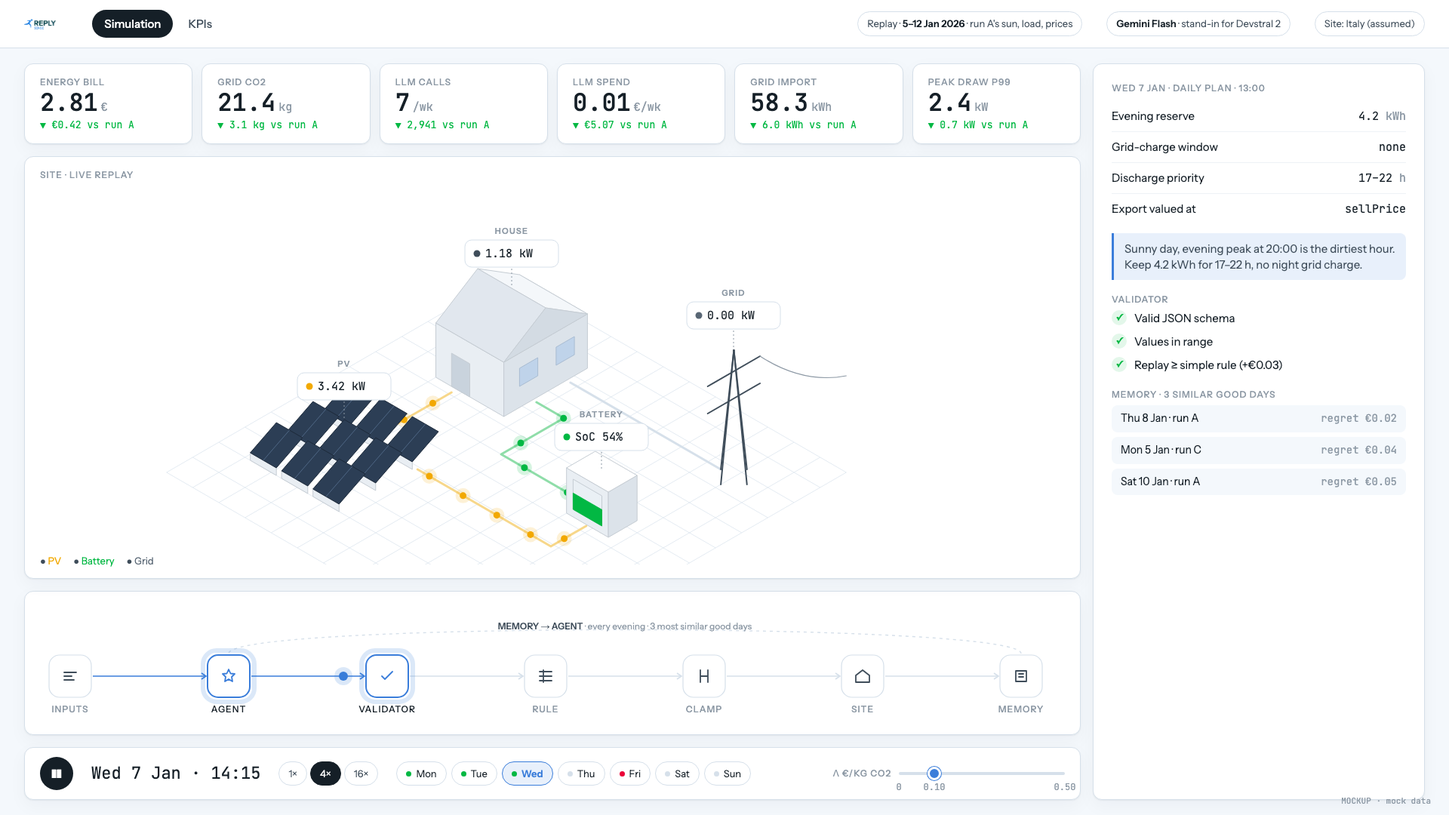
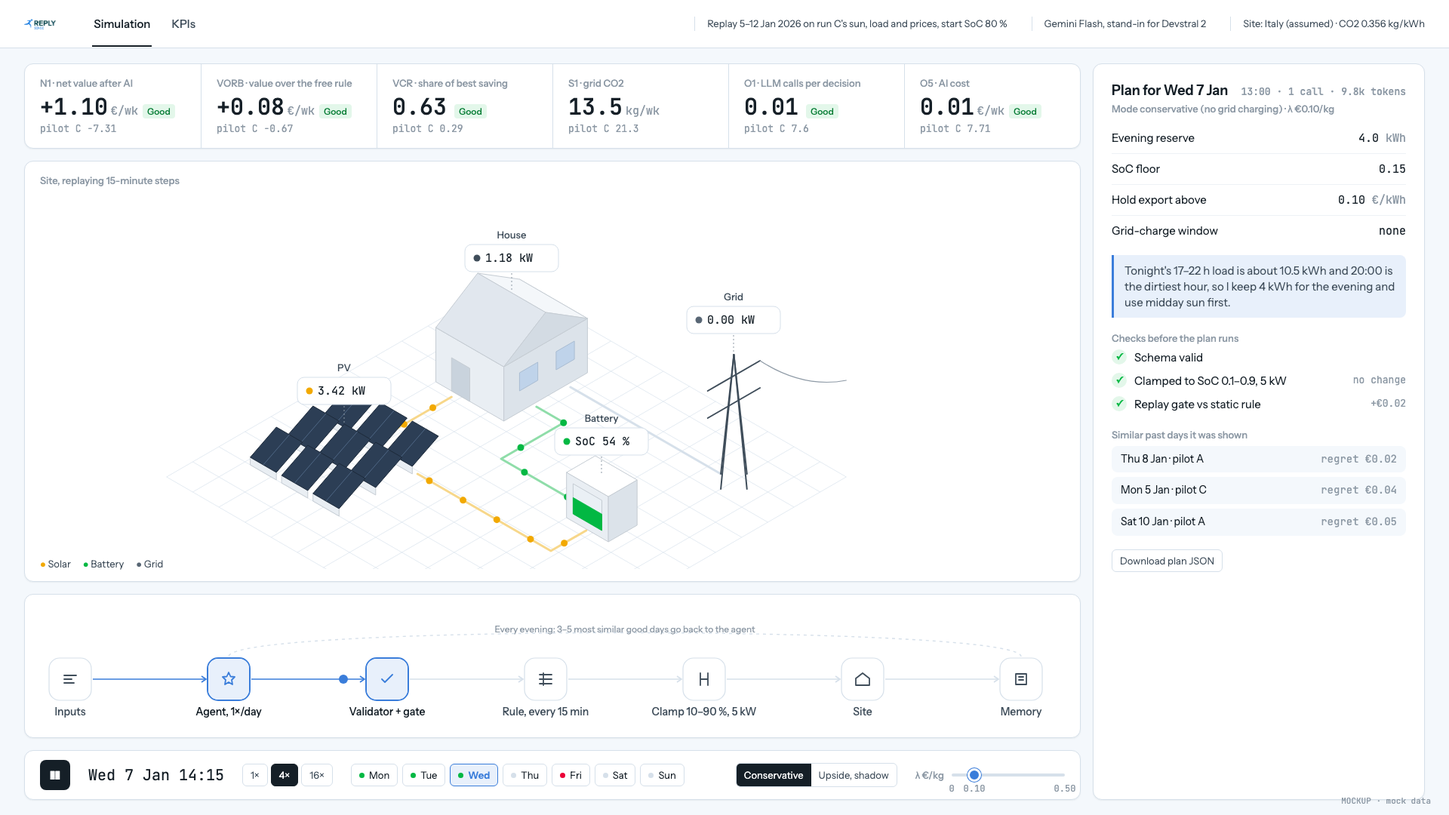
docs: de-slopped mock-1 + KPI tab aligned with the conformity workbook

diff --git a/docs/mockups/mock.html b/docs/mockups/mock.html
@@ -7,16 +7,29 @@
 *{box-sizing:border-box;margin:0;padding:0}
 body{width:1920px;height:1080px;overflow:hidden;background:var(--paper);color:var(--ink);font:400 15px/1.4 "Instrument Sans",sans-serif}
 .mono{font-family:"JetBrains Mono",monospace;font-variant-numeric:tabular-nums}
-.cap{font-size:12px;letter-spacing:.08em;text-transform:uppercase;color:var(--mute);font-weight:500}
+.cap{font-size:13px;color:var(--mute);font-weight:500}
 header{height:64px;display:flex;align-items:center;gap:32px;padding:0 32px;background:var(--card);border-bottom:1px solid var(--line)}
 header img{height:26px}
+.meta{font-size:13px;color:var(--ink2);padding-left:16px;border-left:1px solid var(--line)}
+.strip{display:grid;grid-template-columns:repeat(6,1fr)}
+.strip>div{padding:16px 20px;border-left:1px solid var(--line)}
+.strip>div:first-child{border:0}
+.vd{font:500 12px 'Instrument Sans';padding:2px 6px;border-radius:4px;margin-left:6px}
+.vd.g{background:#E3F7EA;color:#027A31}.vd.i{background:#FDE7EC;color:#B0002A}
+table{border-collapse:collapse;width:100%}
+th,td{padding:9px 8px;text-align:right;font-size:14px;border-bottom:1px solid #EEF2F6;white-space:nowrap}
+th{font-weight:500;color:var(--mute);font-size:13px}
+th:first-child,td:first-child{text-align:left}
+td.n{font-family:'JetBrains Mono',monospace;font-variant-numeric:tabular-nums}
+tr.grp td{font-weight:600;color:var(--ink);padding-top:16px;border-bottom:1px solid var(--line)}
+td.ours,th.ours{background:var(--agent-soft)}
 .tabs{display:flex;gap:4px;margin-left:16px}
-.tab{padding:8px 16px;border-radius:999px;color:var(--ink2);font-weight:500}
-.tab.on{background:var(--ink);color:#fff}
-.chip{padding:6px 12px;border-radius:999px;border:1px solid var(--line);font-size:13px;color:var(--ink2);background:var(--card);white-space:nowrap}
+.tab{padding:20px 2px 18px;margin-right:20px;color:var(--ink2);font-weight:500;border-bottom:2px solid transparent}
+.tab.on{color:var(--ink);border-color:var(--ink)}
+.chip{padding:5px 10px;border-radius:6px;border:1px solid var(--line);font-size:13px;color:var(--ink2);background:var(--card);white-space:nowrap}
 .chip b{font-weight:600;color:var(--ink)}
 .sp{flex:1}
-.card{background:var(--card);border:1px solid var(--line);border-radius:12px;box-shadow:0 1px 2px #151F270F,0 8px 24px #151F270A}
+.card{background:var(--card);border:1px solid var(--line);border-radius:12px;box-shadow:0 1px 2px #151F270F}
 .kpi{padding:16px 20px}
 .kpi .v{font:500 32px/1.1 "JetBrains Mono",monospace;margin-top:6px}
 .kpi .u{font:400 15px "JetBrains Mono",monospace;color:var(--mute);margin-left:4px}
@@ -27,9 +40,9 @@ header img{height:26px}
 .check{display:flex;gap:10px;align-items:center;padding:5px 0}
 .ok{width:20px;height:20px;border-radius:50%;background:#E3F7EA;color:var(--store);display:grid;place-items:center;font-size:12px;font-weight:600}
 .mem{display:flex;justify-content:space-between;padding:8px 12px;border-radius:8px;background:var(--paper);margin-top:6px;font-size:14px}
-.btn{width:44px;height:44px;border-radius:50%;background:var(--ink);color:#fff;display:grid;place-items:center;font-size:16px}
+.btn{width:40px;height:40px;border-radius:8px;background:var(--ink);color:#fff;display:grid;place-items:center;font-size:16px}
 .days{display:flex;gap:6px}
-.day{padding:6px 12px;border-radius:999px;border:1px solid var(--line);font-size:13px;display:flex;gap:6px;align-items:center;background:var(--card)}
+.day{padding:5px 10px;border-radius:6px;border:1px solid var(--line);font-size:13px;display:flex;gap:6px;align-items:center;background:var(--card)}
 .day.on{border-color:var(--agent);background:var(--agent-soft);color:var(--agent);font-weight:600}
 .dot{width:7px;height:7px;border-radius:50%;background:var(--store)}
 .lam{display:flex;align-items:center;gap:10px}
@@ -62,7 +75,7 @@ function scene(W,H,s,ox,oy,labels=true){
     return `<path d="${d}" fill="none" stroke="${col}" stroke-width="${w}" stroke-linecap="round" stroke-linejoin="round"/>`};
   const parts=(pts,col,n)=>{let o='';const seg=[];let L=0;for(let i=1;i<pts.length;i++){const l=Math.hypot(pts[i][0]-pts[i-1][0],pts[i][1]-pts[i-1][1]);seg.push(l);L+=l}
     for(let k=0;k<n;k++){let t=(k+.35)/n*L,i=0;while(t>seg[i]){t-=seg[i];i++}const f=t/seg[i];const a=pts[i],b=pts[i+1];
-      const p=P(a[0]+(b[0]-a[0])*f,a[1]+(b[1]-a[1])*f);o+=`<circle cx="${p[0]}" cy="${p[1]}" r="4.5" fill="${col}"/><circle cx="${p[0]}" cy="${p[1]}" r="10" fill="${col}" opacity=".16"/>`}return o};
+      const p=P(a[0]+(b[0]-a[0])*f,a[1]+(b[1]-a[1])*f);o+=`<circle cx="${p[0]}" cy="${p[1]}" r="4.5" fill="${col}"/>`}return o};
   const fPVh=[[1.8,6.1],[1.8,3.9]], fPVb=[[3.7,7.1],[8.8,7.1],[8.8,5.75]], fBh=[[7.9,5],[4.8,5],[4.8,2.6],[3.75,2.6]], fGh=[[9.5,1.3],[3.75,1.3]];
   g+=path(fGh,C.line,3)+path(fPVh,'#F7D78A',3)+path(fPVb,'#F7D78A',3)+path(fBh,'#8FDDA9',3);
   g+=parts(fPVb,C.sun,5)+parts(fPVh,C.sun,2)+parts(fBh,C.store,4);
@@ -88,8 +101,8 @@ function scene(W,H,s,ox,oy,labels=true){
     g+=poly([[x,y,.75],[x+1,y,.75],[x+1,y+1,.25],[x,y+1,.25]],'#2C3E55','#1D2A3A');
     g+=`<line x1="${P(x+.5,y,.75)[0]}" y1="${P(x+.5,y,.75)[1]}" x2="${P(x+.5,y+1,.25)[0]}" y2="${P(x+.5,y+1,.25)[1]}" stroke="#4E6684" stroke-width="1"/>`}
   // labels
-  const lab=(x,y,z,t,v,col)=>{const p=P(x,y,z);return `<g transform="translate(${p[0].toFixed(0)},${p[1].toFixed(0)})"><line x1="0" y1="0" x2="0" y2="-26" stroke="${C.mute}" stroke-dasharray="2 3"/><rect x="-62" y="-60" width="124" height="36" rx="9" fill="#fff" stroke="${C.line}"/><circle cx="-46" cy="-42" r="4.5" fill="${col}"/><text x="-35" y="-37" font-family="JetBrains Mono" font-size="15" fill="${C.ink}">${v}</text><text x="0" y="-68" text-anchor="middle" font-family="Instrument Sans" font-size="11" font-weight="600" letter-spacing="1.2" fill="${C.mute}">${t}</text></g>`};
-  if(labels)g+=lab(1.4,7.6,.8,'PV','3.42 kW',C.sun)+lab(2.3,2.1,2.9,'HOUSE','1.18 kW',C.ink2)+lab(8.8,5.15,1.6,'BATTERY','SoC 54%',C.store)+lab(10,1.3,4.3,'GRID','0.00 kW',C.grid);
+  const lab=(x,y,z,t,v,col)=>{const p=P(x,y,z);return `<g transform="translate(${p[0].toFixed(0)},${p[1].toFixed(0)})"><line x1="0" y1="0" x2="0" y2="-26" stroke="${C.mute}" stroke-dasharray="2 3"/><rect x="-62" y="-60" width="124" height="36" rx="9" fill="#fff" stroke="${C.line}"/><circle cx="-46" cy="-42" r="4.5" fill="${col}"/><text x="-35" y="-37" font-family="JetBrains Mono" font-size="15" fill="${C.ink}">${v}</text><text x="0" y="-68" text-anchor="middle" font-family="Instrument Sans" font-size="13" font-weight="500" fill="${C.ink2}">${t}</text></g>`};
+  if(labels)g+=lab(1.4,7.6,.8,'PV','3.42 kW',C.sun)+lab(2.3,2.1,2.9,'House','1.18 kW',C.ink2)+lab(8.8,5.15,1.6,'Battery','SoC 54 %',C.store)+lab(10,1.3,4.3,'Grid','0.00 kW',C.grid);
   return `<svg width="${W}" height="${H}" viewBox="0 0 ${W} ${H}">${g}</svg>`;
 }
 
@@ -119,13 +132,13 @@ function timeline(W,H,compact){
 /* ---------- agent-flow pipeline ---------- */
 const ICON={inputs:'M4 7h16M4 12h10M4 17h13',agent:'M12 3l2.5 5.5L20 9l-4 4 1 6-5-3-5 3 1-6-4-4 5.5-.5z',valid:'M5 12l4 4 10-10',rule:'M4 6h16M4 12h16M4 18h16M9 4v16',clamp:'M7 4v16M17 4v16M7 12h10',site:'M3 11l9-7 9 7v9H3z',memory:'M5 5h14v14H5zM9 9h6M9 13h6'};
 function node(x,y,key,label,state=''){const col=state==='on'?C.agent:state==='store'?C.store:C.line;
-  return `<g transform="translate(${x},${y})"><rect x="-28" y="-28" width="56" height="56" rx="14" fill="#fff" stroke="${col}" stroke-width="${state?2:1.2}"/>${state==='on'?`<rect x="-34" y="-34" width="68" height="68" rx="18" fill="none" stroke="${C.agent}" opacity=".18" stroke-width="6"/>`:''}<path d="${ICON[key]}" transform="translate(-12,-12)" fill="none" stroke="${state==='on'?C.agent:C.ink2}" stroke-width="1.8" stroke-linecap="round" stroke-linejoin="round"/><text y="48" text-anchor="middle" font-family="Instrument Sans" font-size="12" letter-spacing="1" fill="${state?C.ink:C.mute}" font-weight="500">${label}</text></g>`}
-function pipeH(W,H){const ks=[['inputs','INPUTS'],['agent','AGENT'],['valid','VALIDATOR'],['rule','RULE'],['clamp','CLAMP'],['site','SITE'],['memory','MEMORY']];
+  return `<g transform="translate(${x},${y})"><rect x="-28" y="-28" width="56" height="56" rx="14" fill="#fff" stroke="${col}" stroke-width="${state?2:1.2}"/>${state==='on'?`<rect x="-27" y="-27" width="54" height="54" rx="13" fill="#E8F0FB"/>`:''}<path d="${ICON[key]}" transform="translate(-12,-12)" fill="none" stroke="${state==='on'?C.agent:C.ink2}" stroke-width="1.8" stroke-linecap="round" stroke-linejoin="round"/><text y="48" text-anchor="middle" font-family="Instrument Sans" font-size="14" fill="${state?C.ink:C.ink2}" font-weight="500">${label}</text></g>`}
+function pipeH(W,H){const ks=[['inputs','Inputs'],['agent','Agent, 1×/day'],['valid','Validator + gate'],['rule','Rule, every 15 min'],['clamp','Clamp 10–90 %, 5 kW'],['site','Site'],['memory','Memory']];
   const y=H/2+18,step=(W-120)/(ks.length-1);let g='';
   for(let i=0;i<ks.length-1;i++){const a=60+i*step+30,b=60+(i+1)*step-30;g+=`<line x1="${a}" x2="${b}" y1="${y}" y2="${y}" stroke="${i<2?C.agent:C.line}" stroke-width="1.6"/><path d="M${b-6} ${y-4}L${b} ${y}L${b-6} ${y+4}" fill="none" stroke="${i<2?C.agent:C.line}" stroke-width="1.6"/>`}
   const ret=`M${60+6*step} ${y-30} C ${60+6*step} ${y-72}, ${60+step} ${y-72}, ${60+step} ${y-30}`;
-  g+=`<path d="${ret}" fill="none" stroke="${C.line}" stroke-width="1.4" stroke-dasharray="4 5"/><text x="${60+3.5*step}" y="${y-62}" text-anchor="middle" font-family="Instrument Sans" font-size="12" fill="${C.mute}"><tspan fill="${C.ink2}" font-weight="600">MEMORY → AGENT</tspan> · every evening · 3 most similar good days</text>`;
-  g+=`<circle cx="${60+2*step-58}" cy="${y}" r="6" fill="${C.agent}"/><circle cx="${60+2*step-58}" cy="${y}" r="12" fill="${C.agent}" opacity=".18"/>`;
+  g+=`<path d="${ret}" fill="none" stroke="${C.line}" stroke-width="1.4" stroke-dasharray="4 5"/><text x="${60+3.5*step}" y="${y-62}" text-anchor="middle" font-family="Instrument Sans" font-size="12" fill="${C.mute}">Every evening: 3–5 most similar good days go back to the agent</text>`;
+  g+=`<circle cx="${60+2*step-58}" cy="${y}" r="6" fill="${C.agent}"/>`;
   ks.forEach(([k,l],i)=>g+=node(60+i*step,y,k,l,i===1||i===2?'on':''));
   return `<svg width="${W}" height="${H}">${g}</svg>`}
 function pipeV(W,H){const ks=[['inputs','INPUTS · price · CO2 · SoC · λ'],['agent','AGENT · Gemini Flash · 1×/day'],['valid','VALIDATOR · JSON · ranges · replay'],['rule','RULE · knobs → kW every 15 min'],['clamp','CLAMP · SoC 10–90 % · ±5 kW'],['site','SITE · PV · battery · house · grid'],['memory','MEMORY · 1 row/day · regret']];
@@ -138,26 +151,29 @@ function pipeV(W,H){const ks=[['inputs','INPUTS · price · CO2 · SoC · λ'],[
   return `<svg width="${W}" height="${H}">${g}</svg>`}
 
 /* ---------- shared blocks ---------- */
-const head=(tab='sim')=>`<header><img style="height:38px" src="../../assets/images/sense-reply-logo.avif" alt="Sense Reply"><div class="tabs"><div class="tab ${tab==='sim'?'on':''}">Simulation</div><div class="tab ${tab==='kpi'?'on':''}">KPIs</div></div><div class="sp"></div><span class="chip">Replay · <b>5–12 Jan 2026</b> · run A's sun, load, prices</span><span class="chip"><b>Gemini Flash</b> · stand-in for Devstral 2</span><span class="chip">Site: Italy (assumed)</span></header>`;
-const kpis=(n=5)=>[['Energy bill','2.81','€','▼ €0.42 vs run A','good'],['Grid CO2','21.4','kg','▼ 3.1 kg vs run A','good'],['LLM calls','7','/wk','▼ 2,941 vs run A','good'],['LLM spend','0.01','€/wk','▼ €5.07 vs run A','good'],['Grid import','58.3','kWh','▼ 6.0 kWh vs run A','good'],['Peak draw P99','2.4','kW','▼ 0.7 kW vs run A','good']].slice(0,n).map(([l,v,u,d,c])=>`<div class="card kpi"><div class="cap">${l}</div><div><span class="v">${v}</span><span class="u">${u}</span></div><div class="d ${c}">${d}</div></div>`).join('');
-const plan=`<div class="cap">Wed 7 Jan · daily plan · 13:00</div>
- <div style="margin-top:8px">${[['Evening reserve','4.2','kWh'],['Grid-charge window','none',''],['Discharge priority','17–22','h'],['Export valued at','sellPrice','']].map(([a,b,c])=>`<div class="row"><span>${a}</span><span class="mono">${b} <span style="color:var(--mute)">${c}</span></span></div>`).join('')}</div>
- <div class="why" style="margin-top:12px">Sunny day, evening peak at 20:00 is the dirtiest hour. Keep 4.2 kWh for 17–22 h, no night grid charge.</div>
- <div class="cap" style="margin-top:18px">Validator</div>
- ${['Valid JSON schema','Values in range','Replay ≥ simple rule (+€0.03)'].map(t=>`<div class="check"><span class="ok">✓</span>${t}</div>`).join('')}
- <div class="cap" style="margin-top:16px">Memory · 3 similar good days</div>
- ${[['Thu 8 Jan · run A','regret €0.02'],['Mon 5 Jan · run C','regret €0.04'],['Sat 10 Jan · run A','regret €0.05']].map(([a,b])=>`<div class="mem"><span>${a}</span><span class="mono" style="color:var(--mute)">${b}</span></div>`).join('')}`;
-const lam=`<div class="lam"><span class="cap">λ €/kg CO2</span><div class="track"><div class="knob" style="left:38px"></div><span class="tick" style="left:0">0</span><span class="tick" style="left:47px">0.10</span><span class="tick" style="left:220px">0.50</span></div></div>`;
+const head=(tab='sim')=>`<header><img style="height:38px" src="../../assets/images/sense-reply-logo.avif" alt="Sense Reply"><div class="tabs"><div class="tab ${tab==='sim'?'on':''}">Simulation</div><div class="tab ${tab==='kpi'?'on':''}">KPIs</div></div><div class="sp"></div><span class="meta">Replay 5–12 Jan 2026 on run C's sun, load and prices, start SoC 80 %</span><span class="meta">Gemini Flash, stand-in for Devstral 2</span><span class="meta">Site: Italy (assumed) · CO2 0.356 kg/kWh</span></header>`;
+const KP=[['N1 · net value after AI','+1.10','€/wk','pilot C −7.31','g'],['VORB · value over the free rule','+0.08','€/wk','pilot C −0.67','g'],['VCR · share of best saving','0.63','','pilot C 0.29','g'],['S1 · grid CO2','13.5','kg/wk','pilot C 21.3','c'],['O1 · LLM calls per decision','0.01','','pilot C 7.6','g'],['O5 · AI cost','0.01','€/wk','pilot C 7.71','g']];
+const kpis=(n=6)=>KP.slice(0,n).map(([l,v,u,d,c])=>`<div><div class="cap">${l}</div><div style="margin-top:6px"><span class="v mono" style="font:500 30px/1.1 'JetBrains Mono'">${v}</span><span class="u mono" style="color:var(--mute);margin-left:4px">${u}</span>${c==='g'?'<span class="vd g">Good</span>':''}</div><div class="mono" style="font-size:13px;color:var(--mute);margin-top:4px">${d}</div></div>`).join('');
+const plan=`<div style="display:flex;justify-content:space-between;align-items:baseline"><h2 style="font:600 18px 'Instrument Sans'">Plan for Wed 7 Jan</h2><span class="cap mono">13:00 · 1 call · 9.8k tokens</span></div>
+ <div class="cap" style="margin-top:4px">Mode conservative (no grid charging) · λ €0.10/kg</div>
+ <div style="margin-top:10px">${[['Evening reserve','4.0','kWh'],['SoC floor','0.15',''],['Hold export above','0.10','€/kWh'],['Grid-charge window','none','']].map(([a,b,c])=>`<div class="row"><span>${a}</span><span class="mono">${b} <span style="color:var(--mute)">${c}</span></span></div>`).join('')}</div>
+ <div class="why" style="margin-top:12px">Tonight's 17–22 h load is about 10.5 kWh and 20:00 is the dirtiest hour, so I keep 4 kWh for the evening and use midday sun first.</div>
+ <div class="cap" style="margin-top:18px">Checks before the plan runs</div>
+ ${[['Schema valid',''],['Clamped to SoC 0.1–0.9, 5 kW','no change'],['Replay gate vs static rule','+€0.02']].map(([t,r])=>`<div class="check" style="justify-content:space-between"><span style="display:flex;gap:10px;align-items:center"><span class="ok">✓</span>${t}</span><span class="mono" style="font-size:13px;color:var(--mute)">${r}</span></div>`).join('')}
+ <div class="cap" style="margin-top:16px">Similar past days it was shown</div>
+ ${[['Thu 8 Jan · pilot A','regret €0.02'],['Mon 5 Jan · pilot C','regret €0.04'],['Sat 10 Jan · pilot A','regret €0.05']].map(([a,b])=>`<div class="mem"><span>${a}</span><span class="mono" style="color:var(--mute)">${b}</span></div>`).join('')}
+ <div style="margin-top:18px;display:flex;gap:8px"><span class="chip">Download plan JSON</span></div>`;
+const lam=`<div class="lam"><span class="cap" style="white-space:nowrap">λ €/kg</span><div class="track" style="width:150px"><div class="knob" style="left:21px"></div><span class="tick" style="left:0">0</span><span class="tick" style="left:30px">0.10</span><span class="tick" style="left:150px">0.50</span></div></div>`;
 const daysC=`<div class="days">${['Mon','Tue','Wed','Thu','Fri','Sat','Sun'].map((d,i)=>`<span class="day ${i===2?'on':''}"><span class="dot" style="${i===4?'background:var(--alert)':''}${i>2&&i!==4?'background:var(--line)':''}"></span>${d}</span>`).join('')}</div>`;
-const play=(extra='')=>`<div class="card" style="display:flex;align-items:center;gap:24px;padding:12px 20px"><div class="btn">❚❚</div><div class="mono" style="font-size:22px">Wed 7 Jan · 14:15</div><div style="display:flex;gap:4px">${['1×','4×','16×'].map((s,i)=>`<span class="chip" style="${i===1?'background:var(--ink);color:#fff;border-color:var(--ink)':''}">${s}</span>`).join('')}</div>${daysC}<div class="sp"></div>${lam}${extra}</div>`;
+const play=(extra='')=>`<div class="card" style="display:flex;align-items:center;gap:24px;padding:12px 20px"><div class="btn">❚❚</div><div class="mono" style="font-size:20px;white-space:nowrap">Wed 7 Jan 14:15</div><div style="display:flex;gap:4px">${['1×','4×','16×'].map((s,i)=>`<span class="chip" style="${i===1?'background:var(--ink);color:#fff;border-color:var(--ink)':''}">${s}</span>`).join('')}</div>${daysC}<div class="sp"></div><div style="display:flex;border:1px solid var(--line);border-radius:6px;overflow:hidden;font-size:13px"><span style="padding:6px 10px;background:var(--ink);color:#fff;white-space:nowrap">Conservative</span><span style="padding:6px 10px;color:var(--ink2);white-space:nowrap">Upside, shadow</span></div>${lam}${extra}</div>`;
 const tag='<div class="mocktag">MOCKUP · mock data</div>';
 const A=document.getElementById('app');
 
 if(V==='1'){ // MAGO-classic: tiles, scene + right agent panel, pipeline strip, playback
   A.innerHTML=head()+`<main style="padding:20px 32px;display:grid;grid-template-columns:1fr 440px;gap:16px;height:1016px">
   <div style="display:grid;grid-template-rows:auto 1fr auto auto;gap:16px;min-height:0">
-   <div style="display:grid;grid-template-columns:repeat(6,1fr);gap:12px">${kpis(6)}</div>
-   <div class="card" style="position:relative;overflow:hidden">${scene(1380,540,40)}<div style="position:absolute;left:20px;top:16px" class="cap">Site · live replay</div><div style="position:absolute;left:20px;bottom:14px;display:flex;gap:16px;font-size:13px;color:var(--ink2)"><span>● <span style="color:var(--sun)">PV</span></span><span>● <span style="color:var(--store)">Battery</span></span><span>● <span style="color:var(--grid)">Grid</span></span></div></div>
+   <div class="card strip">${kpis(6)}</div>
+   <div class="card" style="position:relative;overflow:hidden">${scene(1380,540,40)}<div style="position:absolute;left:20px;top:16px" class="cap">Site, replaying 15-minute steps</div><div style="position:absolute;left:20px;bottom:14px;display:flex;gap:16px;font-size:13px;color:var(--ink2)"><span><span style="color:var(--sun)">●</span> Solar</span><span><span style="color:var(--store)">●</span> Battery</span><span><span style="color:var(--grid)">●</span> Grid</span></div></div>
    <div class="card" style="padding:4px 0 0">${pipeH(1380,180)}</div>
    ${play()}
   </div>
@@ -182,20 +198,44 @@ if(V==='3'){ // Stage: full-bleed scene, floating panels, decision ticker
    <div style="position:absolute;left:32px;right:32px;bottom:24px">${play()}</div></main>${tag}`;
 }
 if(V==='kpi'){
-  const rows=[['Energy bill (SoC-adj.)','€/wk',[2.81,3.23,3.21,3.95]],['Grid CO2 (SoC-adj.)','kg/wk',[21.4,24.5,23.0,31.8]],['Grid import','kWh/wk',[58.3,64.3,60.5,88.0]],['LLM calls','/wk',[7,2948,5118,0]],['Input tokens','M/wk',[.03,11.69,18.79,0]],['LLM spend','€/wk',[.01,5.08,8.05,0]]];
-  const S=[['Ours · 1 agent',C.agent],['Run A · cost agent',C.ink2],['Run C · cost + sust.',C.mute],['No battery','#C5CCD3']];
-  const bars=rows.map(([l,u,v])=>{const m=Math.max(...v);return `<div class="card" style="padding:22px 24px;display:flex;flex-direction:column;justify-content:space-around"><div class="cap">${l} <span style="text-transform:none;letter-spacing:0">· ${u}</span></div>${v.map((x,i)=>`<div style="display:grid;grid-template-columns:170px 1fr 90px;align-items:center;gap:12px;font-size:15px"><span style="color:var(--ink2)">${S[i][0]}</span><div style="height:16px;background:#F0F4F8;border-radius:8px"><div style="height:16px;width:${Math.max(.6,x/m*100)}%;background:${S[i][1]};border-radius:6px"></div></div><span class="mono" style="text-align:right">${x.toLocaleString('en')}</span></div>`).join('')}</div>`}).join('');
-  // trade-off scatter
-  const sc=(()=>{const W=560,H=330,p=50;const pts=[['ours λ=0',2.74,23.1,C.agent],['ours λ=0.10',2.81,21.4,C.agent],['ours λ=0.50',2.98,19.9,C.agent],['run A',3.23,24.5,C.ink2],['run C',3.21,23.0,C.mute],['no battery',3.95,31.8,'#C5CCD3']];
-   const X=v=>p+(v-2.6)/1.5*(W-p-20),Y=v=>H-p+ -(v-18)/15*(H-p-20);let g=`<line x1="${p}" x2="${W-10}" y1="${H-p}" y2="${H-p}" stroke="${C.line}"/><line x1="${p}" x2="${p}" y1="10" y2="${H-p}" stroke="${C.line}"/><text x="${W-10}" y="${H-p+30}" text-anchor="end" font-family="Instrument Sans" font-size="12" fill="${C.mute}">ENERGY BILL €/wk →</text><text x="${p+8}" y="20" font-family="Instrument Sans" font-size="12" fill="${C.mute}">↑ GRID CO2 kg/wk</text>`;
-   g+=`<path d="M${X(2.74)} ${Y(23.1)}L${X(2.81)} ${Y(21.4)}L${X(2.98)} ${Y(19.9)}" stroke="${C.agent}" stroke-width="1.5" fill="none" stroke-dasharray="4 4"/>`;
-   pts.forEach(([l,x,y,c])=>g+=`<circle cx="${X(x)}" cy="${Y(y)}" r="7" fill="${c}"/><text text-anchor="${x>3.5?'end':'start'}" x="${X(x)+(x>3.5?-12:12)}" y="${Y(y)+4}" font-family="JetBrains Mono" font-size="12" fill="${C.ink2}">${l}</text>`);return `<svg width="${W}" height="${H}">${g}</svg>`})();
-  const live=(()=>{const W=560,H=150;let d='';for(let h=0;h<24;h++){const v=330+80*Math.exp(-((h-20)**2)/8)-70*Math.max(0,Math.sin((h-8)/9*Math.PI));d+=(h?'L':'M')+(10+h*(W-20)/23)+' '+(H-20-(v-220)/220*(H-40))}
-    return `<svg width="${W}" height="${H}"><path d="${d}" fill="none" stroke="${C.hi||'#C9733A'}" stroke-width="2"/><line x1="${10+18.5*(W-20)/23}" x2="${10+18.5*(W-20)/23}" y1="10" y2="${H-20}" stroke="${C.ink}"/><text x="10" y="${H-2}" font-family="JetBrains Mono" font-size="11" fill="${C.mute}">00</text><text x="${W-26}" y="${H-2}" font-family="JetBrains Mono" font-size="11" fill="${C.mute}">24h</text></svg>`})();
-  A.innerHTML=head('kpi')+`<main style="padding:20px 32px;display:grid;grid-template-columns:1fr 600px;gap:16px;height:1016px">
-   <section><div style="display:flex;align-items:baseline;gap:16px;margin-bottom:14px"><h1 style="font:600 28px 'Instrument Sans'">Same week, 7 LLM calls instead of 2,948</h1><span class="cap">ours vs logged runs · SoC-adjusted</span></div>
-    <div style="display:grid;grid-template-columns:1fr 1fr;grid-auto-rows:1fr;gap:16px;height:880px">${bars}</div></section>
-   <aside style="display:grid;gap:16px;align-content:start"><div class="card" style="padding:20px"><div class="cap">Cost vs CO2 trade-off · one point per λ</div>${sc}</div>
-    <div class="card" style="padding:20px"><div style="display:flex;justify-content:space-between"><div class="cap">Live · Italy grid CO2 today · ENTSO-E</div><span class="chip" style="font-size:12px">● live</span></div><div style="display:flex;gap:24px;margin:8px 0"><div><span class="v mono" style="font-size:32px">362</span><span class="u mono" style="color:var(--mute)"> g/kWh now</span></div><div style="color:var(--ink2);font-size:14px;align-self:center">Cleanest 12:00 · dirtiest 20:00</div></div>${live}</div></aside></main>${tag}`;
+  // values: data/Sense_Reply_B2_KPI_Conformity.xlsx, sheet "KPI Verdicts". Ours = Gemini replay (session 2), dash until computed.
+  const cols=['A · cost agent','C · dual agent','Static rule','S5 conservative','S5 upside'];
+  const G=[['Economics & AI value',[
+   ['S_net','Saving vs no battery, net of wear','€/wk','≥ 1.03',['0.41','0.40','1.03','1.12','1.80'],'iiggg'],
+   ['VCR','Share of the best possible saving','ratio','≥ 0.60',['0.28','0.29','0.60','0.63','0.96'],'iiigg'],
+   ['VORB','Value over the static rule','€/wk','≥ 0',['−0.73','−0.67','0','+0.08','+0.79'],'iiggg'],
+   ['N1','Net value after AI cost','€/wk','≥ 0',['−4.33','−7.31','1.03','1.10','1.78'],'iiggg'],
+   ['N2','AI cost per € saved','€/€','≤ 0.2',['7.84','12.24','0','0.008','0.005'],'iiggg'],
+   ['O5','LLM cost','€/wk','≤ 0.5',['4.74','7.71','0','0.01','0.01'],'iiggg']]],
+  ['Carbon',[
+   ['S2b','CO2 avoided vs static rule','kg/wk','≥ 0',['−10.0','−9.4','0','−1.6','−10.3'],'iigii'],
+   ['MAC','Abatement cost of the carbon lever','€/kg','≤ 0.09',['n/a','4.29','n/a','0.03','0.03'],'-i-gg'],
+   ['S1','Grid CO2, SoC-adjusted','kg/wk','context',['21.9','21.3','11.9','13.5','22.2'],'ccccc']]],
+  ['Self-use & grid',[
+   ['SCR','Self-consumption of PV','ratio','≥ 0.70',['0.52','0.54','0.83','0.78','0.53'],'iiggi'],
+   ['SSR','Self-sufficiency','ratio','≥ 0.60',['0.39','0.44','0.70','0.67','0.40'],'iiggi'],
+   ['PSR','Peak shaving','ratio','≥ 0.25',['0.00','0.39','0.53','0.53','−0.07'],'igggi'],
+   ['G1','Peak grid import','kW','context',['4.81','2.93','2.24','2.24','5.11'],'ccccc']]],
+  ['Battery & orchestration',[
+   ['B4','Time at SoC limits','share','≤ 0.25',['0.00','0.00','0.40','0.29','0.34'],'ggiii'],
+   ['C5','Expensive-import share','share','≤ 0.5',['0.81','0.80','0.78','0.75','0.39'],'iiiig'],
+   ['O1','LLM calls per 15-min decision','calls','≤ 0.3',['4.39','7.62','0','0.01','0.01'],'iiggg']]]];
+  const vd=c=>c==='g'?'<span class="vd g" title="Good">✓</span>':c==='i'?'<span class="vd i" title="Improvable">↑</span>':'<span class="vd" style="visibility:hidden">✓</span>';
+  let t=`<table><tr><th>KPI</th><th>Unit</th><th>Threshold</th>${cols.map(c=>`<th>${c}</th>`).join('')}<th class="ours">Ours, Gemini</th></tr>`;
+  for(const[g,rows]of G){t+=`<tr class="grp"><td colspan="9">${g}</td></tr>`;
+   for(const[id,n,u,th,v,vv]of rows)t+=`<tr><td><span class="mono" style="color:var(--mute);display:inline-block;width:52px">${id}</span>${n}</td><td style="color:var(--mute)">${u}</td><td class="n" style="color:var(--mute)">${th}</td>${v.map((x,i)=>`<td class="n">${x}${vd(vv[i])}</td>`).join('')}<td class="n ours" style="color:var(--mute)">—</td></tr>`}
+  t+='</table>';
+  const sum=[['A',5,19],['C',6,20],['Static rule',15,18],['S5 conservative',16,19],['S5 upside',14,19]];
+  const live=(()=>{const W=400,H=120;let d='';for(let h=0;h<24;h++){const v=330+80*Math.exp(-((h-20)**2)/8)-70*Math.max(0,Math.sin((h-8)/9*Math.PI));d+=(h?'L':'M')+(10+h*(W-20)/23)+' '+(H-20-(v-220)/220*(H-40))}
+    return `<svg width="${W}" height="${H}"><line x1="10" x2="${W-10}" y1="${H-20-(356-220)/220*(H-40)}" y2="${H-20-(356-220)/220*(H-40)}" stroke="${C.line}" stroke-dasharray="3 4"/><path d="${d}" fill="none" stroke="#C9733A" stroke-width="2"/><text x="10" y="${H-2}" font-family="JetBrains Mono" font-size="11" fill="${C.mute}">00</text><text x="${W-30}" y="${H-2}" font-family="JetBrains Mono" font-size="11" fill="${C.mute}">24 h</text></svg>`})();
+  A.innerHTML=head('kpi')+`<main style="padding:20px 32px;display:grid;grid-template-columns:minmax(0,1fr) 440px;gap:16px;height:1016px">
+   <section class="card" style="padding:20px 20px 8px;overflow:hidden"><div style="display:flex;justify-content:space-between;align-items:baseline"><h1 style="font:600 22px 'Instrument Sans'">KPI conformity, initial vs final</h1><span class="cap"><span class="vd g">✓</span> good &nbsp;<span class="vd i">↑</span> improvable · values from the KPI Conformity workbook</span></div>
+    <div style="margin-top:8px">${t}</div></section>
+   <aside style="display:grid;gap:16px;align-content:start;min-width:0">
+    <div class="card" style="padding:20px"><h2 style="font:600 16px 'Instrument Sans';margin-bottom:12px">Good KPIs out of those assessed</h2>${sum.map(([n,g,a])=>`<div style="display:grid;grid-template-columns:130px 1fr 52px;gap:12px;align-items:center;margin-top:10px;font-size:14px"><span>${n}</span><div style="height:10px;background:#F0F4F8;border-radius:5px"><div style="height:10px;width:${g/a*100}%;background:${n.startsWith('S5')?C.agent:C.ink2};border-radius:5px"></div></div><span class="mono" style="text-align:right">${g}/${a}</span></div>`).join('')}</div>
+    <div class="card" style="padding:20px"><div style="display:flex;justify-content:space-between;align-items:baseline"><h2 style="font:600 16px 'Instrument Sans'">Italy grid CO2 today</h2><span class="cap">ENTSO-E, updated 14:00</span></div><div style="margin:8px 0"><span class="mono" style="font-size:30px">362</span><span class="mono" style="color:var(--mute)"> g/kWh now</span><span style="color:var(--ink2);font-size:14px;margin-left:16px">Dashed line: workbook constant 356</span></div>${live}</div>
+    <div class="card" style="padding:20px"><h2 style="font:600 16px 'Instrument Sans'">Now measurable in the replay</h2><p style="font-size:14px;color:var(--ink2);margin-top:6px">The pilots logged no proposals, so these were "not assessable". The replay logs every plan.</p>${[['F5','Fallback rate','0 / 7 days'],['P4','Invalid-output rate','0 / 7 plans'],['P4','Clamp rate','0.4 % of steps'],['P4','Explanation share','7 / 7 plans']].map(([i,n,v])=>`<div class="row"><span><span class="mono" style="color:var(--mute);display:inline-block;width:36px">${i}</span>${n}</span><span class="mono">${v}</span></div>`).join('')}</div>
+   </aside></main>${tag}`;
 }
+
 </script></body></html>
